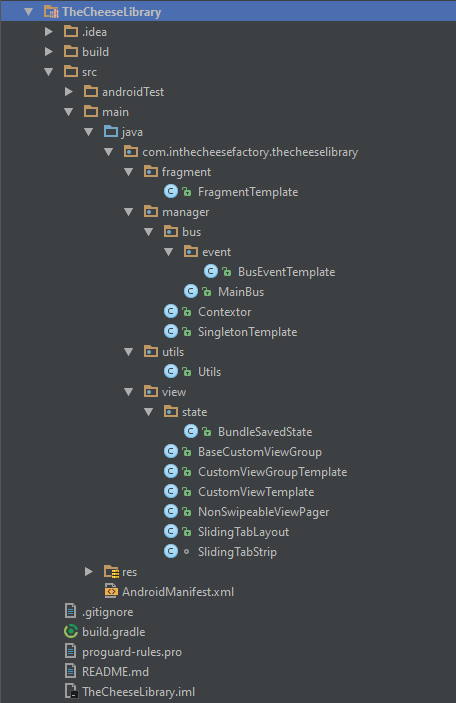
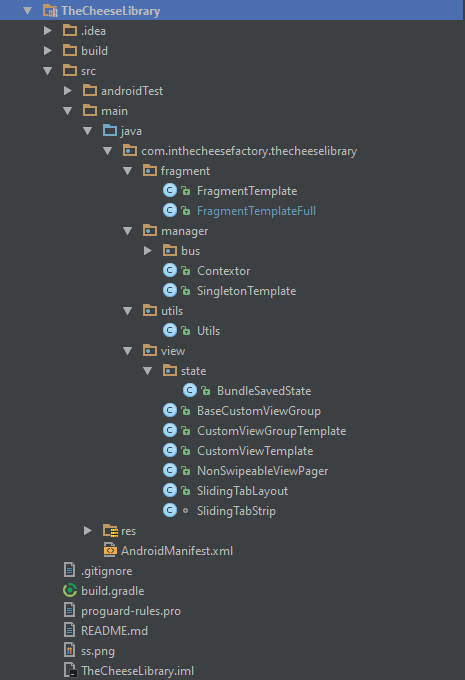
ss

Changed region(s): [[0.0, 0.0, 0.7675, 1.0], [0.9825, 0.0, 1.0, 0.0309], [0.2456, 0.4324, 0.2763, 0.4632]]

diff --git a/src/main/java/com/inthecheesefactory/thecheeselibrary/fragment/FragmentTemplateFull.java b/src/main/java/com/inthecheesefactory/thecheeselibrary/fragment/FragmentTemplateFull.java
@@ -12,12 +12,14 @@ import com.inthecheesefactory.thecheeselibrary.R;
 /**
  * Created by nuuneoi on 11/16/2014.
  */
+@SuppressWarnings("unused")
 public class FragmentTemplateFull extends Fragment {
 
     public FragmentTemplateFull() {
         super();
     }
 
+    @SuppressWarnings("unused")
     public static FragmentTemplateFull newInstance() {
         FragmentTemplateFull fragment = new FragmentTemplateFull();
         Bundle args = new Bundle();
@@ -46,6 +48,7 @@ public class FragmentTemplateFull extends Fragment {
         // Init Fragment level's variable(s) here
     }
 
+    @SuppressWarnings("UnusedParameters")
     private void initInstances(View rootView, Bundle savedInstanceState) {
         // Init 'View' instance(s) with rootView.findViewById here
     }
@@ -72,6 +75,7 @@ public class FragmentTemplateFull extends Fragment {
     /*
      * Restore Instance State Here
      */
+    @SuppressWarnings("UnusedParameters")
     private void onRestoreInstanceState(Bundle savedInstanceState) {
         // Restore Instance State here
     }
